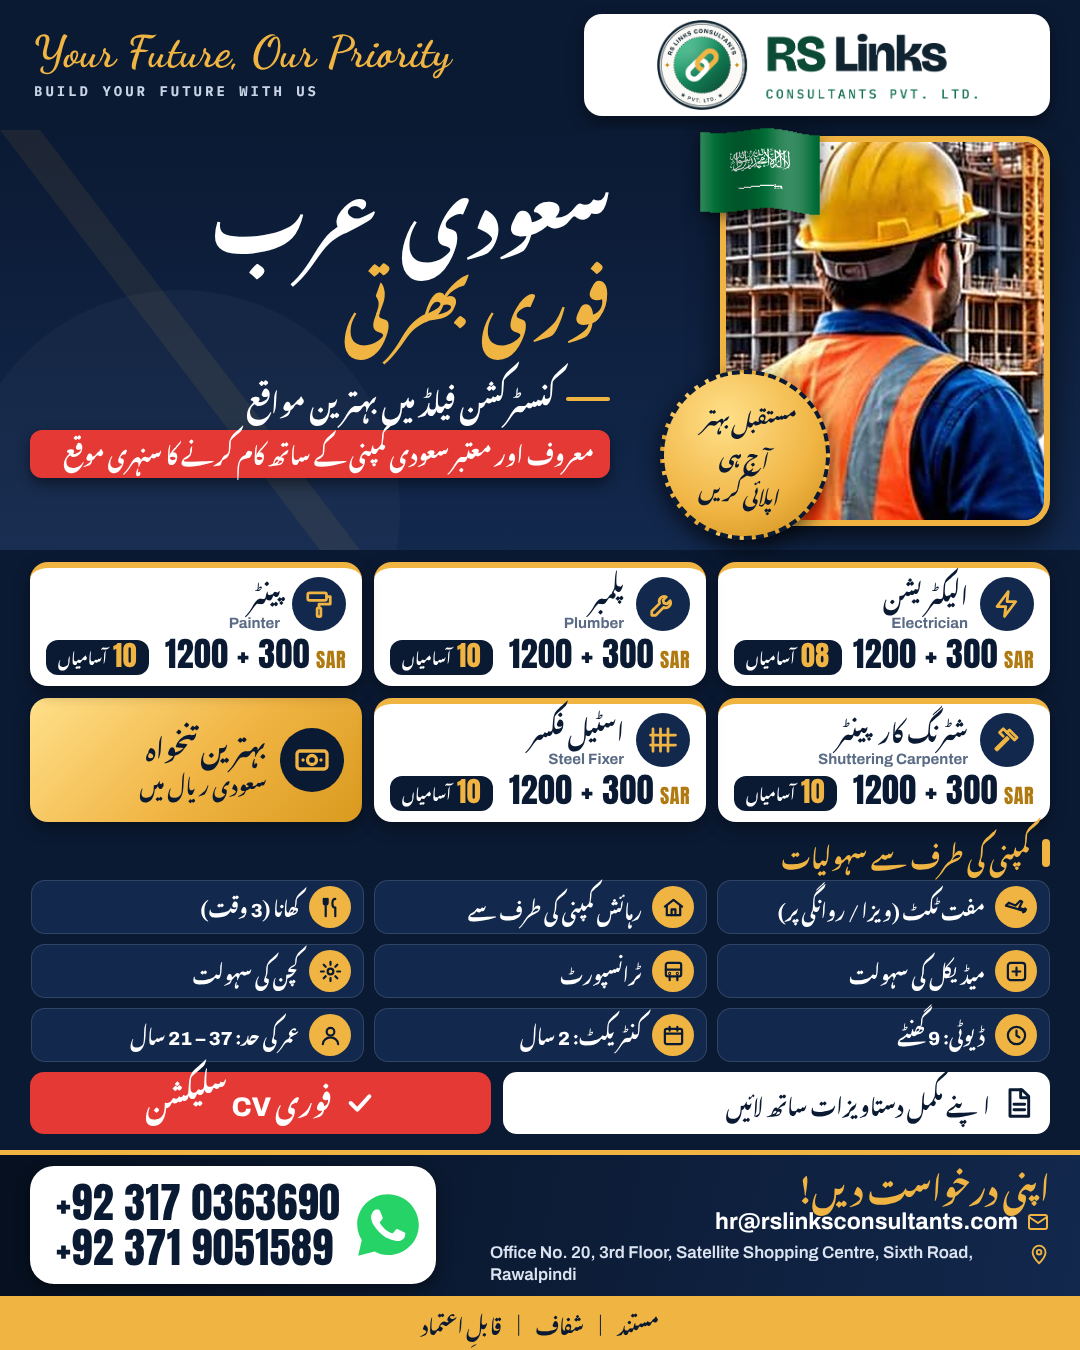
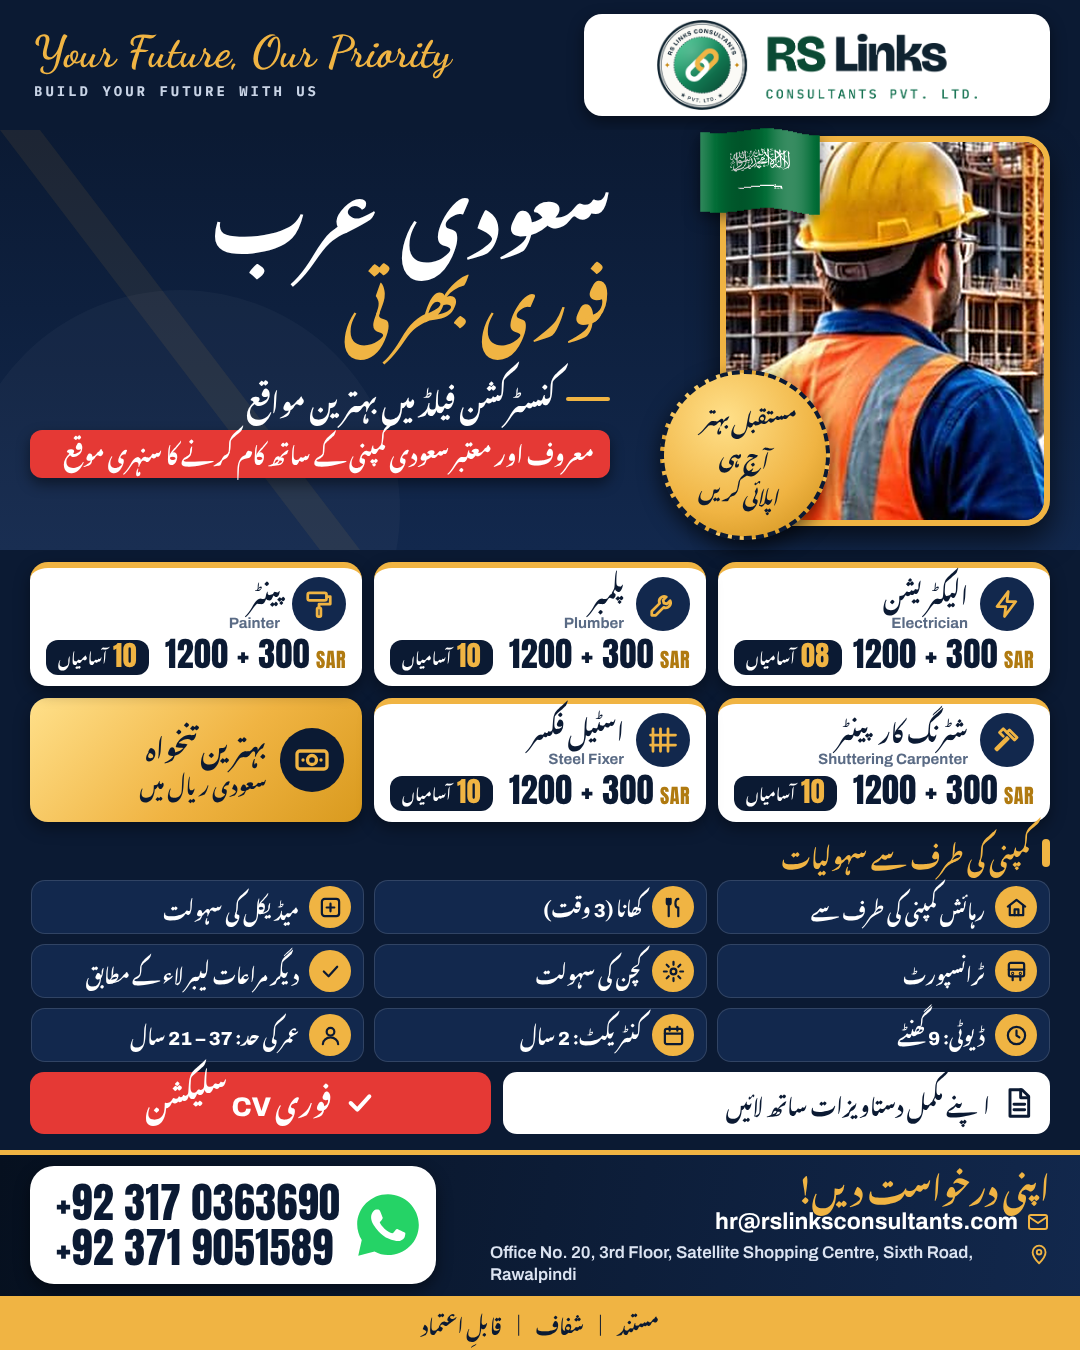
Saudi construction navy ad: remove free ticket
Claude-Session: https://claude.ai/code/session_01YJ5ofgU8QCiWTsYR9pvXG4

diff --git a/src/data/saudi_construction_v2.py b/src/data/saudi_construction_v2.py
@@ -1,7 +1,7 @@
 """2026-10-13: Saudi Arabia construction — redesign of the user's own ad
 (demands/2026-10-13-saudi-construction/user-ad-v2-source.jpg), same content, new theme.
 Content from the user's ad: Electrician 08, Plumber 10, Painter 10, Shuttering Carpenter 10,
-Steel Fixer 10, each 1200 + 300 SAR · facilities: free ticket (on visa/departure), accommodation,
+Steel Fixer 10, each 1200 + 300 SAR · facilities: accommodation,
 food 3 times, medical, transport, kitchen facility · 2-year contract · duty 9 hours · age 21–37 ·
 best salary in Saudi Riyal · bring complete documents · urgent CV selection.
 Phone order per user: 0317 first."""
@@ -30,8 +30,9 @@ DATA = {
                  ("hammer", "Shuttering Carpenter", "", "10"), ("rebar", "Steel Fixer", "", "10")],
         "best": ["BEST SALARY", "Paid in Saudi Riyal"],
         "fac_title": "FACILITIES BY THE COMPANY",
-        "facilities": [("plane", "Free ticket (on visa / departure)"), ("home", "Accommodation"), ("food", "Food (3 times a day)"),
+        "facilities": [("home", "Accommodation"), ("food", "Food (3 times a day)"),
                        ("medical", "Medical facility"), ("bus", "Transport"), ("gear", "Kitchen facility"),
+                       ("check", "Other benefits as per labour law"),
                        ("clock", "Duty: 9 hours"), ("calendar", "Contract: 2 years"), ("user", "Age limit: 21 – 37 years")],
         "docs": "Bring your complete documents",
         "cv": "URGENT CV SELECTION",
@@ -48,8 +49,9 @@ DATA = {
                  ("hammer", "شٹرنگ کارپینٹر", "Shuttering Carpenter", "10"), ("rebar", "اسٹیل فکسر", "Steel Fixer", "10")],
         "best": ["بہترین تنخواہ", "سعودی ریال میں"],
         "fac_title": "کمپنی کی طرف سے سہولیات",
-        "facilities": [("plane", "مفت ٹکٹ (ویزا / روانگی پر)"), ("home", "رہائش کمپنی کی طرف سے"), ("food", f"کھانا ({N(3)} وقت)"),
+        "facilities": [("home", "رہائش کمپنی کی طرف سے"), ("food", f"کھانا ({N(3)} وقت)"),
                        ("medical", "میڈیکل کی سہولت"), ("bus", "ٹرانسپورٹ"), ("gear", "کچن کی سہولت"),
+                       ("check", "دیگر مراعات لیبر لاء کے مطابق"),
                        ("clock", f"ڈیوٹی: {N(9)} گھنٹے"), ("calendar", f"کنٹریکٹ: {N(2)} سال"), ("user", f"عمر کی حد: {N('21 – 37')} سال")],
         "docs": "اپنے مکمل دستاویزات ساتھ لائیں",
         "cv": f"فوری {N('CV')} سلیکشن",
